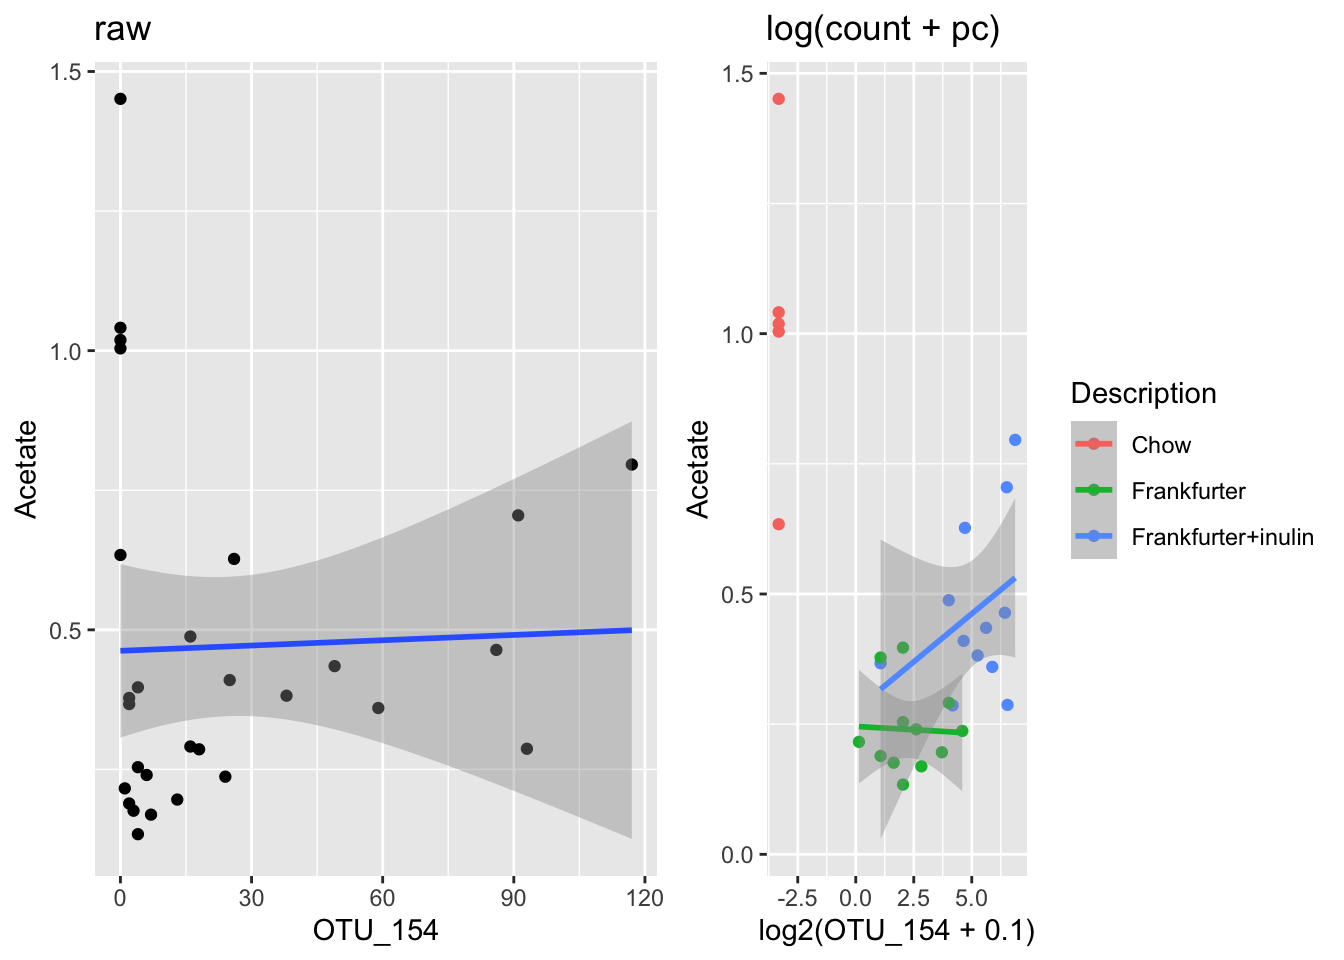
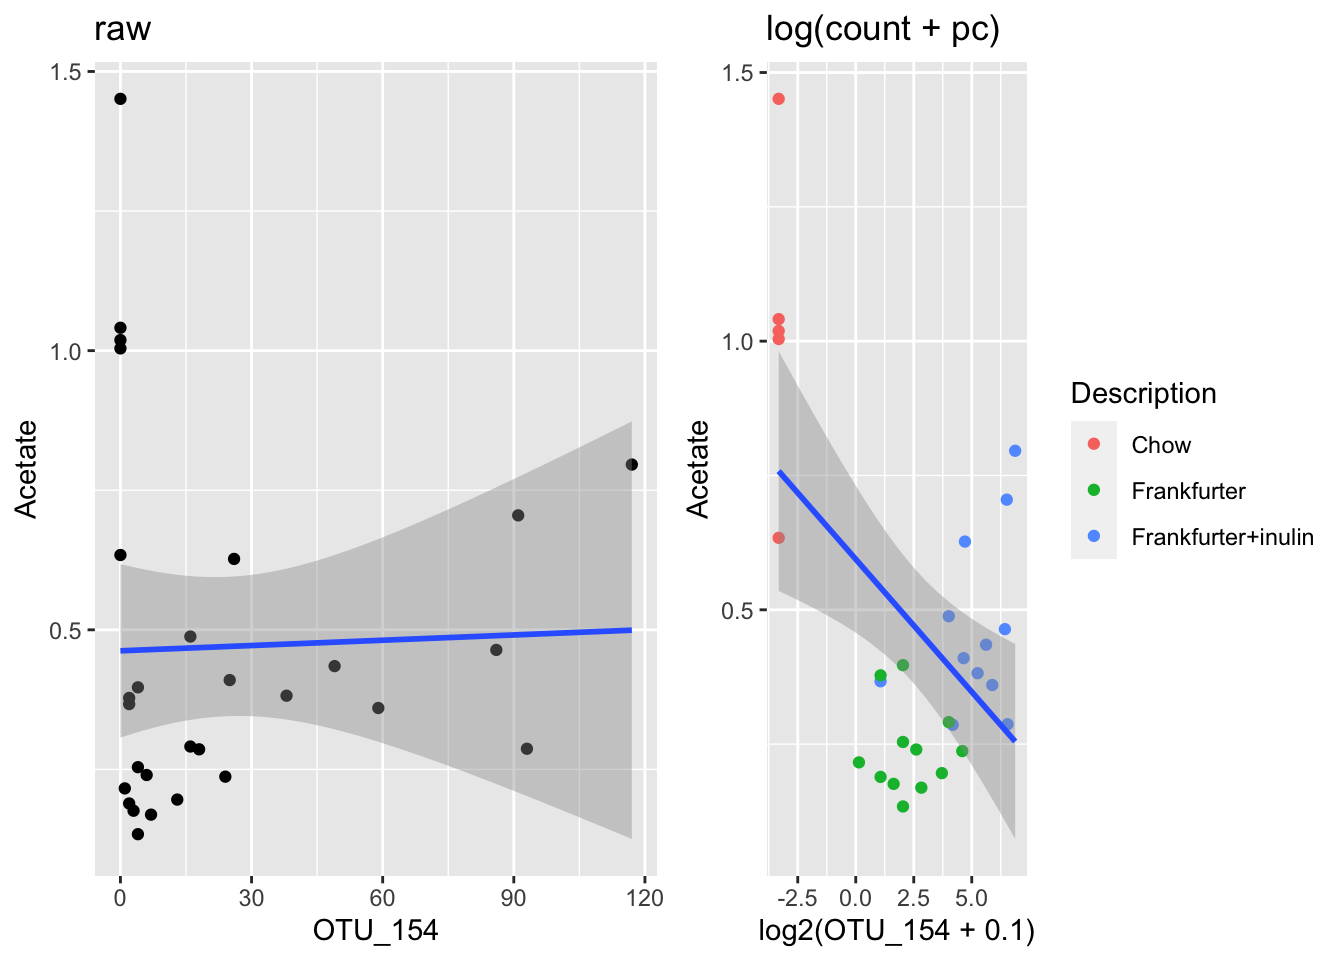
hm updated

Changed region(s): [[0.5312, 0.3125, 0.8438, 0.875], [0.5312, 0.875, 0.5625, 0.9062], [0.5312, 0.0625, 0.5625, 0.0938]]

diff --git a/cca.html b/cca.html
@@ -453,16 +453,16 @@ R &lt;- fixKernelMatrix(exp(-D))</code></pre>
 
 print(res_pen$res_df)</code></pre>
 <pre><code>##            A p_corr_cmp1 p_corr_cmp2 p_var_cmp1 p_var_cmp2
-## 1  0.0000000           0   0.0000000          0 0.00000000
-## 2  0.1111111           0   0.0000000          0 0.00000000
-## 3  0.2222222           0   0.0000000          0 0.00000000
-## 4  0.3333333           0   0.0000000          0 0.00000000
-## 5  0.4444444           0   0.0000000          0 0.00000000
-## 6  0.5555556           0   0.0000000          0 0.00000000
-## 7  0.6666667           0   0.0000000          0 0.00000000
-## 8  0.7777778           0   0.0000000          0 0.03333333
-## 9  0.8888889           0   0.0000000          0 0.03333333
-## 10 1.0000000           0   0.2666667          0 0.33333333</code></pre>
+## 1  0.0000000  0.00000000  0.00000000          0  0.0000000
+## 2  0.1111111  0.00000000  0.00000000          0  0.0000000
+## 3  0.2222222  0.00000000  0.00000000          0  0.0000000
+## 4  0.3333333  0.06666667  0.00000000          0  0.0000000
+## 5  0.4444444  0.00000000  0.00000000          0  0.0000000
+## 6  0.5555556  0.00000000  0.00000000          0  0.0000000
+## 7  0.6666667  0.00000000  0.03333333          0  0.0000000
+## 8  0.7777778  0.03333333  0.00000000          0  0.0000000
+## 9  0.8888889  0.03333333  0.00000000          0  0.0000000
+## 10 1.0000000  0.00000000  0.20000000          0  0.4333333</code></pre>
 <p>Now we take a descision on which model to use and extract it in a
 similar fashion as above. Resulting in the microbiome loadingplot
 below.</p>

diff --git a/hm.html b/hm.html
@@ -413,8 +413,8 @@ df &lt;- cbind(sample_data(phyXsel),OTUsel)
 g1 &lt;- ggplot(data = df, aes(OTU_154,Acetate)) + 
   geom_point() + stat_smooth(method = lm) + ggtitle(&#39;raw&#39;)
 
-g2 &lt;- ggplot(data = df, aes(log2(OTU_154 + 0.1),Acetate, color = Description)) + 
-  geom_point() + stat_smooth(method = lm) + ggtitle(&#39;log(count + pc)&#39;)
+g2 &lt;- ggplot(data = df, aes(log2(OTU_154 + 0.1),Acetate )) + 
+  geom_point(aes(color = Description)) + stat_smooth(method = lm) + ggtitle(&#39;log(count + pc)&#39;)
 
 gridExtra::grid.arrange(g1,g2, nrow = 1)</code></pre>
 <p><img src="hm_files/figure-html/unnamed-chunk-6-1.png" width="672" /></p>
